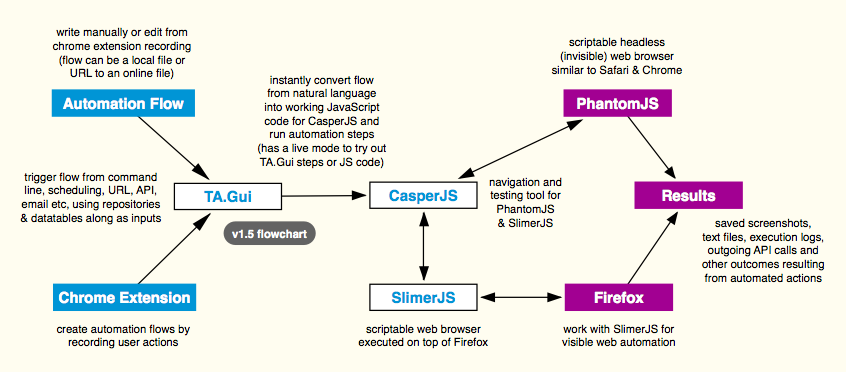
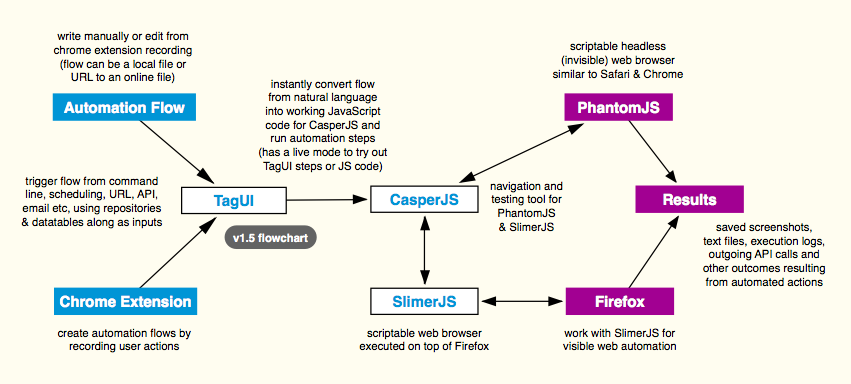
update name from TA.Gui to TagUI

diff --git a/src/tagui_header.js b/src/tagui_header.js
@@ -301,7 +301,7 @@ function check_intent(raw_intent) {
 return "this.echo('ERROR - step not supported in live mode')";}
 
 function test_intent(raw_intent) {
-return "this.echo('ERROR - use CasperJS tester module to professionally " + raw_intent + "\\nERROR - info at http://docs.casperjs.org/en/latest/modules/tester.html\\nERROR - support CSS selector or tx(\\'selector\\') for XPath algo by TA.Gui')";}
+return "this.echo('ERROR - use CasperJS tester module to professionally " + raw_intent + "\\nERROR - info at http://docs.casperjs.org/en/latest/modules/tester.html\\nERROR - support CSS selector or tx(\\'selector\\') for XPath algo by TagUI')";}
 
 function frame_intent(raw_intent) {
 return "this.echo('ERROR - step not supported in live mode')";}

diff --git a/src/tagui_parse.php b/src/tagui_parse.php
@@ -1,6 +1,6 @@
 <?php
 
-/* PARSER SCRIPT FOR TA.GUI FRAMEWORK ~ TEBEL.ORG */
+/* PARSER SCRIPT FOR TAGUI FRAMEWORK ~ TEBEL.ORG */
 
 // check flow filename for .gui or .txt or no extension
 $script = $argv[1]; if ($script=="") die("ERROR - specify flow filename as first parameter\n");
@@ -31,7 +31,7 @@ $url_provided = false; // to detect if url is provided in user-script
 // series of loops to create casperjs script from header, user flow, footer files
 
 // create header of casperjs script using tagui config and header template
-fwrite($output_file,"/* OUTPUT CASPERJS SCRIPT FOR TA.GUI FRAMEWORK ~ TEBEL.ORG */\n\n");
+fwrite($output_file,"/* OUTPUT CASPERJS SCRIPT FOR TAGUI FRAMEWORK ~ TEBEL.ORG */\n\n");
 fwrite($output_file,"var casper = require('casper').create();\n"); // opening lines
 while(!feof($config_file)) {fwrite($output_file,fgets($config_file));} fclose($config_file);
 while(!feof($header_file)) {fwrite($output_file,fgets($header_file));} fclose($header_file);
@@ -354,7 +354,7 @@ return "{".parse_condition("if ".$param1)."\nthis.echo(".$param2.");\nelse this.
 function test_intent($raw_intent) {
 echo "ERROR - " . current_line() . " use CasperJS tester module to professionally " . $raw_intent . "\n";
 echo "ERROR - " . current_line() . " info at http://docs.casperjs.org/en/latest/modules/tester.html" . "\n";
-echo "ERROR - " . current_line() . " support CSS selector or tx('selector') for XPath algo by TA.Gui" . "\n";}
+echo "ERROR - " . current_line() . " support CSS selector or tx('selector') for XPath algo by TagUI" . "\n";}
 
 function frame_intent($raw_intent) {
 if ($GLOBALS['inside_frame'] != 0) 

diff --git a/src/tagui_runner.php b/src/tagui_runner.php
@@ -1,6 +1,6 @@
 <?php
 
-/* SERVICE API RUNNER SCRIPT FOR TA.GUI FRAMEWORK ~ TEBEL.ORG */
+/* SERVICE API RUNNER SCRIPT FOR TAGUI FRAMEWORK ~ TEBEL.ORG */
 
 // verify that both service queue files are accessible
 $service_in_file = fopen('tagui_service.in','a') or die("ERROR - cannot open " . 'tagui_service.in' . "\n");

diff --git a/src/tagui_report.php b/src/tagui_report.php
@@ -1,6 +1,6 @@
 <?php
 
-/* REPORT SCRIPT FOR TA.GUI FRAMEWORK ~ TEBEL.ORG */
+/* REPORT SCRIPT FOR TAGUI FRAMEWORK ~ TEBEL.ORG */
 
 // verify automation log file exists and can be opened
 $script = $argv[1]; if ($script=="") die("ERROR - specify flow filename for report\n");

diff --git a/src/tagui_service.php b/src/tagui_service.php
@@ -1,6 +1,6 @@
 <?php
 
-/* SERVICE API SCRIPT FOR TA.GUI FRAMEWORK ~ TEBEL.ORG */
+/* SERVICE API SCRIPT FOR TAGUI FRAMEWORK ~ TEBEL.ORG */
 
 // grab tagui automation settings from SETTINGS parameter
 $service_settings = $_GET['SETTINGS'];
